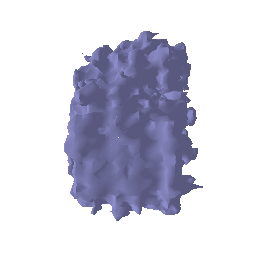
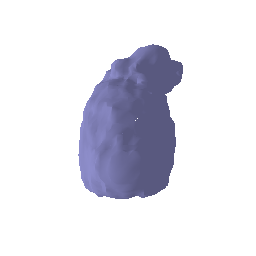
lr higher

diff --git a/images/make_gif.py b/images/make_gif.py
@@ -1,6 +1,6 @@
 import imageio
 
-NAME = "part_5"
+NAME = "part_6"
 NUM_FRAMES = 20
 FPS = 15
 

diff --git a/README.md b/README.md
@@ -9,5 +9,6 @@ To train the NeRF, run the command `python volume_rendering_main.py --config-nam
 
 Part B.
 
-To render the torus, run the command `python -m surface_rendering_main --config-name=torus_surface`, and the images should appear as PNGs in the images/part_5 folder.
+To render the torus, run the command `python -m surface_rendering_main --config-name=torus_surface`, and the images should appear as PNGs in the `images/part_5` directory.
 
+To train the Neural SDF, run the command `python -m surface_rendering_main --config-name=points_surface`, and the images should appear as PNGs in the `images/part_6` directory.
